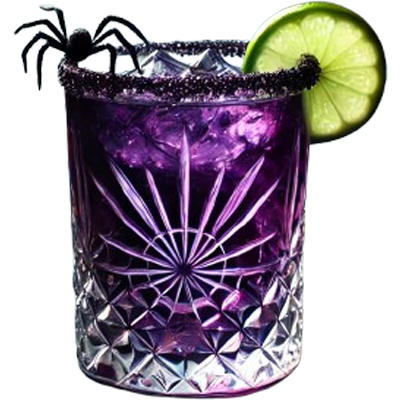
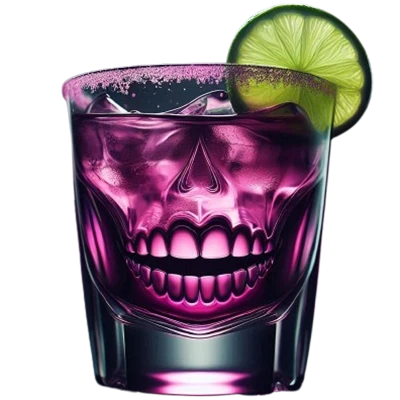
Disible horror story + fix halloween_mortal_kiss image

diff --git a/resources/[soz]/soz-core/src/shared/features.ts b/resources/[soz]/soz-core/src/shared/features.ts
@@ -45,44 +45,44 @@ export const DefaultFeatureConfig: FeaturesConfig = {
         test: true,
     },
     [Feature.HalloweenScenario1]: {
-        production: true,
-        development: true,
-        test: true,
+        production: false,
+        development: false,
+        test: false,
     },
     [Feature.HalloweenScenario2]: {
-        production: true,
-        development: true,
-        test: true,
+        production: false,
+        development: false,
+        test: false,
     },
     [Feature.HalloweenScenario3]: {
-        production: true,
-        development: true,
-        test: true,
+        production: false,
+        development: false,
+        test: false,
     },
     [Feature.HalloweenScenario4]: {
-        production: true,
-        development: true,
-        test: true,
+        production: false,
+        development: false,
+        test: false,
     },
     [Feature.Halloween2023Scenario1]: {
-        production: true,
-        development: true,
-        test: true,
+        production: false,
+        development: false,
+        test: false,
     },
     [Feature.Halloween2023Scenario2]: {
-        production: true,
-        development: true,
-        test: true,
+        production: false,
+        development: false,
+        test: false,
     },
     [Feature.Halloween2023Scenario3]: {
-        production: true,
-        development: true,
-        test: true,
+        production: false,
+        development: false,
+        test: false,
     },
     [Feature.Halloween2023Scenario4]: {
-        production: true,
-        development: true,
-        test: true,
+        production: false,
+        development: false,
+        test: false,
     },
     [Feature.Boat]: {
         production: true,
